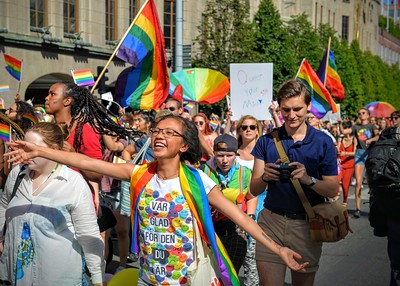
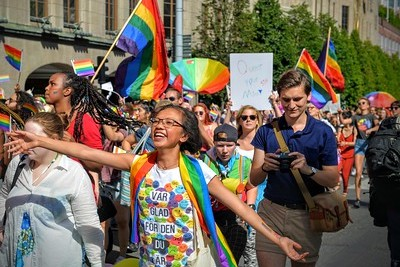
Add lgbtq community item

diff --git a/gatsby/src/components/index/Communities.js b/gatsby/src/components/index/Communities.js
@@ -4,13 +4,44 @@ import { StaticQuery, graphql } from "gatsby";
 
 import "./communities.css";
 
-const Communities = ({ data, lang }) => {
+const Communities = ({ data, lang, imgs }) => {
   const communities = data.allMarkdownRemark.edges.filter(
     item => item.node.frontmatter.language === lang
   );
   const text = data.text.edges.filter(
     item => item.node.frontmatter.language === lang
   )[0].node.frontmatter.components;
+
+  const renderCommunityImg = community => {
+    const imgPathName = community.node.frontmatter.img;
+    if (imgPathName.split("/").length > 1) {
+      let leImg = imgs.nodes.find(img => {
+        return (
+          img.fluid.src.split("/").pop() ===
+          community.node.frontmatter.img.split("/").pop()
+        );
+      });
+
+      return (
+        <Img
+          fluid={leImg.fluid}
+          fadeIn={false}
+          className="Communities--imageStyles"
+          alt={community.node.frontmatter.alt}
+        />
+      );
+    } else {
+      return (
+        <Img
+          fluid={data[community.node.frontmatter.img].childImageSharp.fluid}
+          fadeIn={false}
+          className="Communities--imageStyles"
+          alt={community.node.frontmatter.alt}
+        />
+      );
+    }
+  };
+
   return (
     <>
       <section className="bg-primary-dark padding-top-3 padding-bottom-3">
@@ -28,15 +59,7 @@ const Communities = ({ data, lang }) => {
                   aria-label={community.node.frontmatter.title}
                 >
                   <div className="bg-base-darkest margin-1">
-                    <Img
-                      fluid={
-                        data[community.node.frontmatter.img].childImageSharp
-                          .fluid
-                      }
-                      fadeIn={false}
-                      className="Communities--imageStyles"
-                      alt={community.node.frontmatter.alt}
-                    />
+                    {renderCommunityImg(community)}
                   </div>
                   <h3 className="text-base-lightest margin-x-3 font-body-xs tablet:font-body-md Communities--textStyles">
                     {community.node.frontmatter.title}
@@ -147,6 +170,13 @@ export default props => (
             }
           }
         }
+        communityImages: allImageSharp {
+          nodes {
+            fluid(maxHeight: 600) {
+              ...GatsbyImageSharpFluid
+            }
+          }
+        }
         latinx: file(base: { eq: "bailadores.jpeg" }) {
           childImageSharp {
             fluid(maxHeight: 600) {
@@ -191,6 +221,8 @@ export default props => (
         }
       }
     `}
-    render={data => <Communities data={data} {...props} />}
+    render={data => (
+      <Communities data={data} imgs={data.communityImages} {...props} />
+    )}
   />
 );

diff --git a/gatsby/content/communities/en/2020-02-24-lgbtq-community-group.md b/gatsby/content/communities/en/2020-02-24-lgbtq-community-group.md
@@ -1,8 +1,7 @@
 ---
 language: en
 title: LGBTQ+ Community Group
-link: 'https://www.thetaskforce.org/queerthecensus.html'
-img: /gatsby/static/img/32602188148_4e2779288c_w.jpg
+link: "https://www.thetaskforce.org/queerthecensus.html"
+img: /gatsby/static/img/lgbtq.jpg
 alt: young people celebrating at a PRIDE parade
 ---
-
